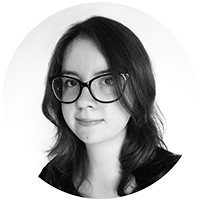
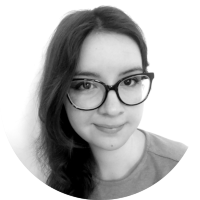
update values and profile picture

diff --git a/src/pages/values.js b/src/pages/values.js
@@ -16,12 +16,13 @@ const Values = () => {
             </div>
             <div className="values-text">
               <p>
-                With each new project I take up new technologies, tools and
-                methods. I like to be ahead of the game and keep up to date with
-                trends and tech.
+                With each new project I take up{" "}
+                <strong>new technologies</strong>, tools and methods. I like to
+                be ahead of the game and keep up to date with trends and tech.
               </p>
               <p>
-                My expertise allows me to to eagerly anticipate challenges
+                My expertise allows me to to eagerly anticipate{" "}
+                <strong>challenges</strong>{" "}
                 instead of fearing them.
               </p>
             </div>
@@ -33,11 +34,12 @@ const Values = () => {
             <div className="values-text">
               <p>
                 Half-measures and doing the minimum won't do for me. If I take
-                up a task, I will do it well.
+                up a task, I will do it <strong>well</strong>.
               </p>
               <p>
-                I consider all aspects of a project and make sure that none of
-                them will fall short as a result of my decisions.
+                I consider <strong>all aspects</strong> of a project and make
+                sure that none of them will fall short as a result of my
+                decisions.
               </p>
             </div>
             <div className="values-icons">
@@ -54,12 +56,13 @@ const Values = () => {
           </div>
           <div className="values-text">
             <p>
-              The act of creation is my greatest passion, and I make sure that
-              it shows in my efforts.
+              The art of <strong>creation</strong> is my greatest passion, and I
+              make sure that it shows in my efforts.
             </p>
             <p>
               I love shaping things from the ground up, and I’m always bursting
-              with ideas on how to make the best from what I’m given.
+              with <strong>ideas</strong> on how to make the best from what I’m
+              given.
             </p>
           </div>
         </section>
@@ -69,12 +72,14 @@ const Values = () => {
         <section className="padding-x-large padding-y-small flex values show-on-scroll">
           <div className="values-text">
             <p>
-              A well-integrated team is the first step to achieving success.
+              A well-integrated <strong>team</strong> is the first step to
+              achieving success.
             </p>
             <p>
-              Honesty and efficient communication are always a priority for me,
-              and I am ready to set aside my personal preferences if it means
-              achieving results faster.
+              <stron>Honesty</stron> and{" "}
+              <strong>efficient communication</strong> are always a priority for
+              me, and I am ready to set aside my personal preferences if it
+              means achieving results faster.
             </p>
           </div>
           <div className="values-icons">
@@ -92,14 +97,14 @@ const Values = () => {
           </div>
           <div className="values-text">
             <p>
-              I appreciate honest feedback, and I’m ready to give it when the
-              situation calls for it. I like getting straight to the point and
-              not wasting time on unnecessary courtesy.
+              I appreciate <strong>honest feedback</strong>, and I’m ready to
+              give it when the situation calls for it. I like getting straight
+              to the point and not wasting time on unnecessary courtesy.
             </p>
             <p>
-              I am always honest and open with my perception of the situation,
-              and I will make it clear when I don’t understand something or
-              think I’m not capable of doing it.
+              I am always <strong>honest</strong> and <strong>open</strong> with my perception of the situation,
+              and I will <strong>make it clear</strong> when I don’t understand
+              something or think I’m not capable of doing it.
             </p>
           </div>
         </section>
